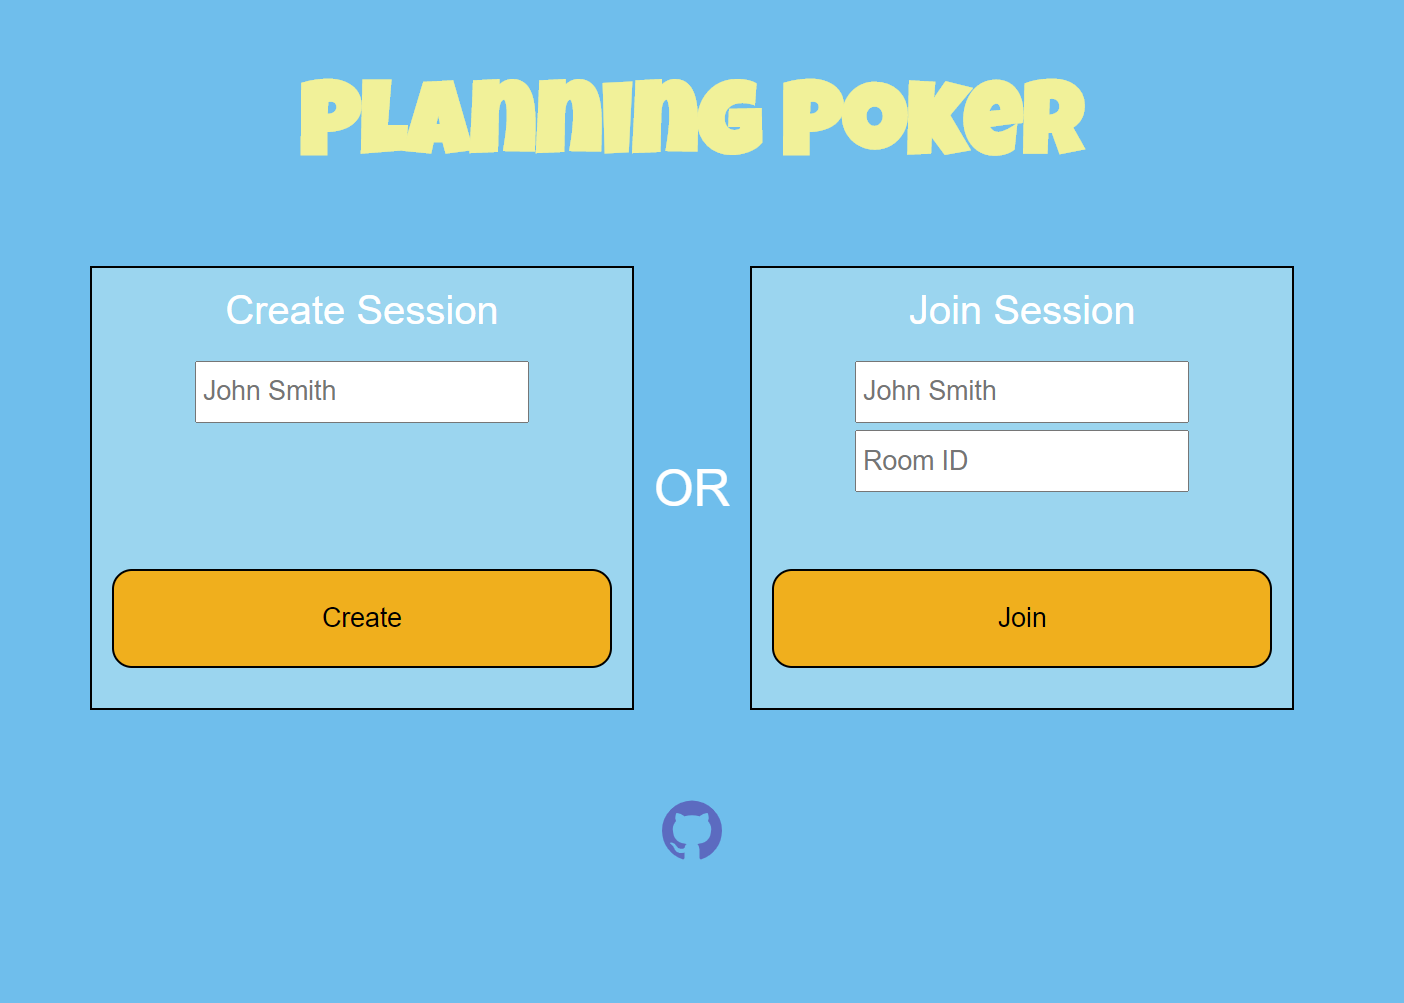
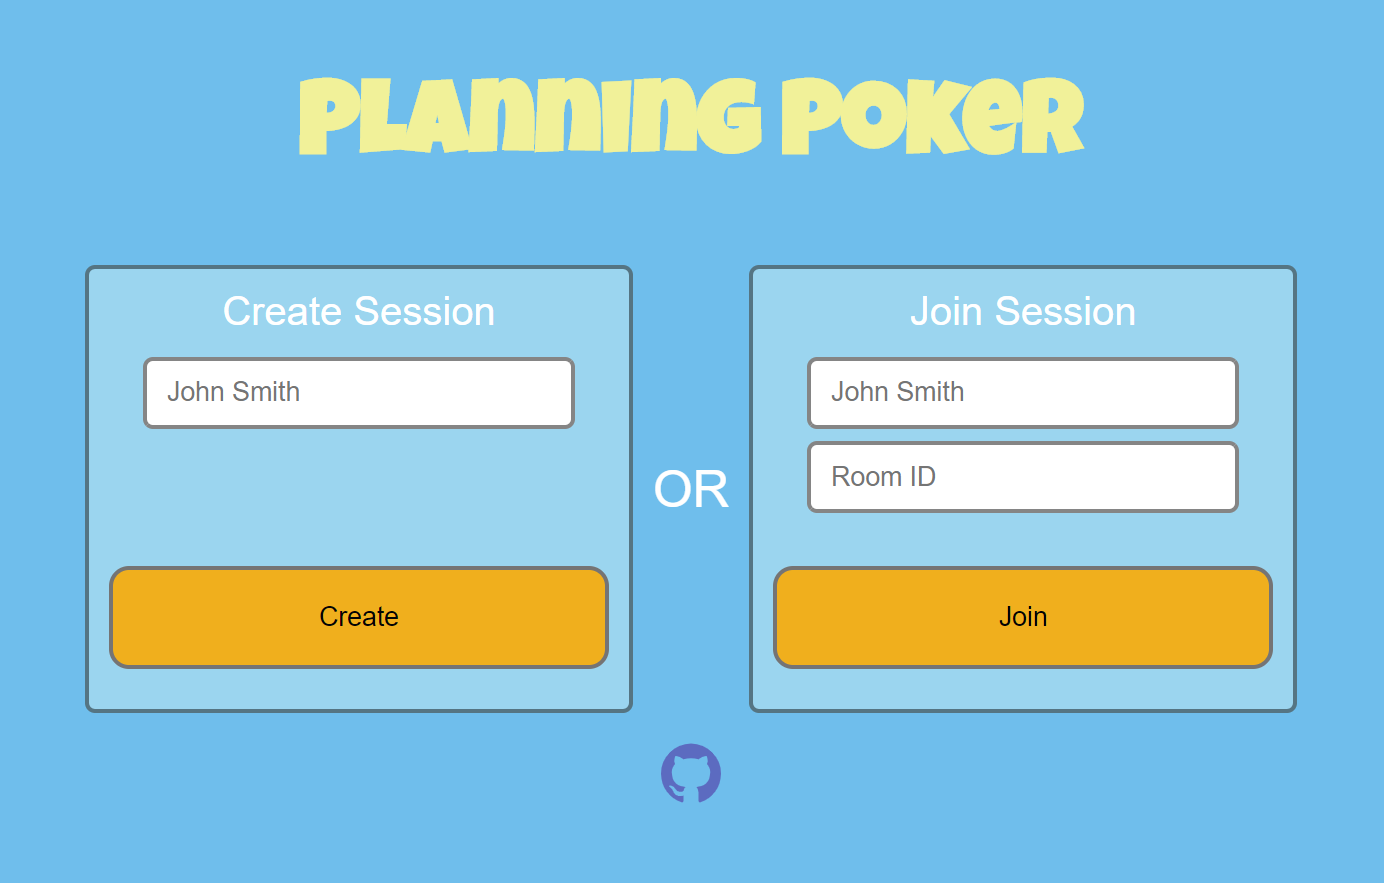
CSS tweaks plus story editing bug fix

diff --git a/public/styles/poker.css b/public/styles/poker.css
@@ -82,7 +82,7 @@ h1 {
     width: 600px;
     border-radius: 10px;
     padding: 10px;
-    font-size: 20px;
+    font-size: 15px;
     background-color: white;
     color: black;
     border: none;
@@ -109,11 +109,11 @@ h1 {
     display: flex;
     flex-direction: column;
     align-items: left;
-    padding: 5px;
+    padding-top: 15px;
 }
 
 #pendingStories .Story {
-    margin: 10px;
+    margin-bottom: 10px;
     font-size: 18px;
 }
 
@@ -217,18 +217,27 @@ button:focus {
 }
 
 #joinOptions input {
-    height: 25px;
+    height: 30px;
     margin-bottom: 5px;
+    padding-left: 10px;
+    border-color: #0000007a;
+    width: 200px;
+    border-radius: 5px;
+}
+
+#joinOptions input:focus {
+    outline: none;
 }
 
 #joinOptions button {
     width: 100%;
     margin: 10px;
     padding: 16px 24px;
-    border: 1px solid black;
+    border: 2px solid #757474;
     border-radius: 10px;
     vertical-align: bottom;
     background-color: #F0AF1D;
+    color: #040404;
 }
 
 .Option {
@@ -239,7 +248,8 @@ button:focus {
     margin: 10px;
     height: 200px;
     width: 250px;
-    border: 1px solid black;
+    border: 2px solid #00000073;
+    border-radius: 5px;
 }
 
 .Option div {
@@ -299,9 +309,7 @@ button:focus {
 .StoryDeleteButton {
     padding: 2px;
     margin-right: 5px;
-    border: 1px solid white;
-    background-color: red;
-    color: white;
+    height: 15px;
 }
 
 .StoryDeleteButton:hover {

diff --git a/public/scripts/engine.js b/public/scripts/engine.js
@@ -121,8 +121,8 @@ function addStory() {
 function updateStoriesList(newStory) {
     let newStoryDiv = document.createElement("div")
     newStoryDiv.className = "Story"
-    let deleteButton = document.createElement("span")
-    deleteButton.innerText = 'x'
+    let deleteButton = document.createElement("img")
+    deleteButton.src = '/assets/delete.png'
     deleteButton.setAttribute("class", "StoryDeleteButton")
 
     let text = document.createElement("span")

diff --git a/server.js b/server.js
@@ -126,6 +126,7 @@ io.on('connection', function (socket) {
         // Update active story title and emit to all users in the room
         rooms[room].stories[rooms[room].activeStory] = storyText;
         io.to(room).emit('updateStory', storyText);
+        io.to(room).emit('storiesList', rooms[room].stories)
     });
 
     // When a user submits a new story

diff --git a/public/index.html b/public/index.html
@@ -87,7 +87,7 @@
     </div>
     <div class="Social-Buttons">
         <div>
-            <a href="https://github.com/rayhogan/planningpoker">
+            <a href="https://github.com/rayhogan/planningpoker" target="_blank">
                 <img src="assets/github.svg" />
             </a>
         </div>

diff --git a/README.md b/README.md
@@ -2,9 +2,9 @@
 
 ![Alt text](/public/assets/screenshot.png?raw=true "App Screenshot")
 ![Alt text](/public/assets/screenshot_2.png?raw=true "App Screenshot")
-Screenshot valid as of 27th Oct 2020
+Screenshot valid as of 5th Nov 2020
 
-TODO: Add link to live demo here
+Check it out live, here: [http://storysizing.io](http://storysizing.io)
 
 ## Install Instructions
 * Clone/download the repo
